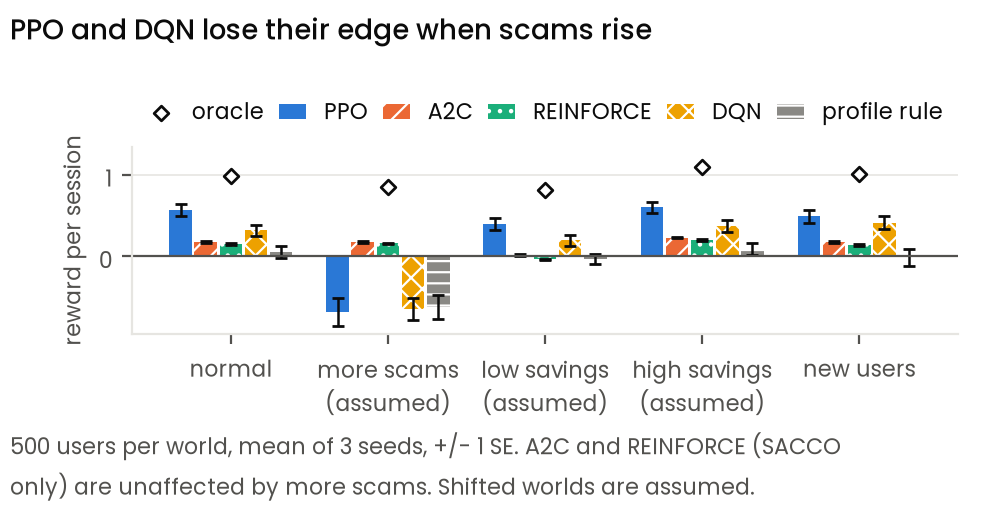
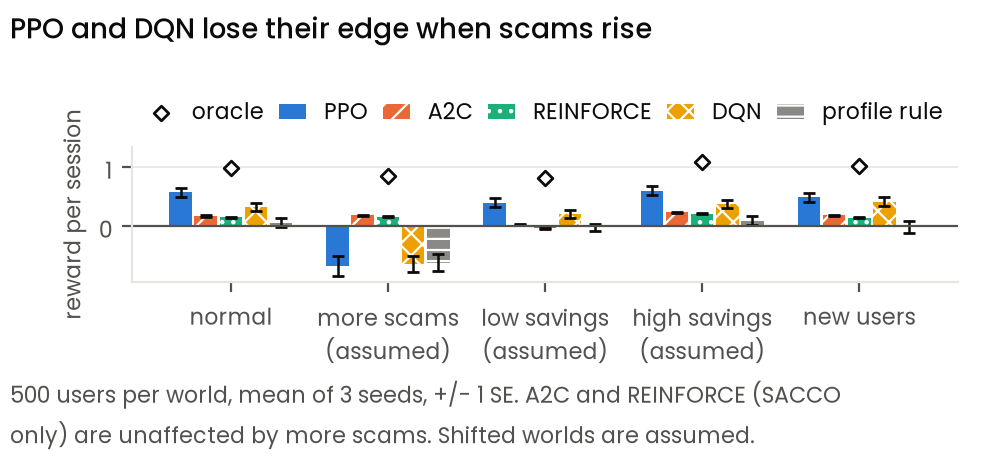
Put Figure 3's panels side by side and shorten the figures

diff --git a/analysis/plots.py b/analysis/plots.py
@@ -212,10 +212,13 @@ def fig_learning_curves(out, rule_val):
 
 
 # ---- 2. DQN loss and exploration -------------------------------------------------------------
+FIG3_WIDTH = 3.1          # inches; Figure 3's two figures sit side by side in the report, each at this width
+
+
 def fig_dqn(out):
     cs = final_curves("dqn")
     steps = cs[0]["step"]
-    fig, (a, b) = plt.subplots(1, 2, figsize=(6.0, 2.7))
+    fig, (a, b) = plt.subplots(2, 1, figsize=(FIG3_WIDTH, 3.3), sharex=True)
     for s, c in zip(SEEDS, cs):
         a.plot(steps, c["loss"], color=COLOR["dqn"], linewidth=1.2, alpha=0.5 + 0.25 * s, label=f"seed {s}")
     a.axvline(50_000, color=INK_2, linestyle=":", linewidth=1)
@@ -226,18 +229,17 @@ def fig_dqn(out):
     b.set_title("epsilon (share of random actions)", loc="left")
     b.set_ylabel("epsilon")
     b.set_ylim(0, 1.05)
-    for ax in (a, b):
-        ax.set_xlabel("training steps")
-        ax.xaxis.set_major_formatter(THOUSANDS)
-    a.legend(fontsize=8)
-    return finish(fig, "DQN's loss dips while it explores, then levels off",
+    b.set_xlabel("training steps")
+    b.xaxis.set_major_formatter(THOUSANDS)
+    a.legend(fontsize=8, loc="lower center", ncol=3, handlelength=1.0, columnspacing=0.8, borderaxespad=0.1)  # empty band under the curves
+    return finish(fig, "DQN: loss dips, then levels off",
                   "DQN run 1 (learning rate 3e-4), 3 seeds, 200,000 steps, logged every 10,000 steps.",
                   f"{out}/dqn_loss_epsilon.png")
 
 
 # ---- 3. policy-gradient entropy and policy loss ----------------------------------------------
 def fig_pg(out):
-    fig, (a, b) = plt.subplots(1, 2, figsize=(6.0, 2.68))
+    fig, (a, b) = plt.subplots(2, 1, figsize=(FIG3_WIDTH, 3.3), sharex=True)
     for algo in ("ppo", "a2c", "reinforce"):
         cs = final_curves(algo)
         steps = cs[0]["step"]
@@ -247,18 +249,19 @@ def fig_pg(out):
             ax.plot(steps, ys.mean(0), color=COLOR[algo], linestyle=LINESTYLE[algo], marker=MARKER[algo],
                     markevery=4, markersize=5, label=NAMES[algo])
     a.axhline(np.log(15), color=INK_2, linestyle=":", linewidth=1)
-    a.text(60_000, np.log(15) + 0.06, "fully random", fontsize=8, color=INK_2)
-    a.set_ylim(0, 3.05)
+    a.text(200_000, np.log(15) - 0.12, "fully random", fontsize=8, color=INK_2, ha="right", va="top")
+    a.set_ylim(0, 4.4)                                          # headroom above "fully random" for the legend
+    a.set_yticks([0, 1, 2, 3])
     a.set_title("entropy (spread of choices)", loc="left")
     a.set_ylabel("entropy (nats)")
     b.axhline(0, color=INK_2, linewidth=0.8)
     b.set_title("policy loss (noisy)", loc="left")
     b.set_ylabel("policy loss")
-    for ax in (a, b):
-        ax.set_xlabel("training steps")
-        ax.xaxis.set_major_formatter(THOUSANDS)
-    b.legend(fontsize=8, loc="lower right", markerscale=0.7, handlelength=1.8)   # empty corner of the loss panel
-    return finish(fig, "A2C and REINFORCE narrow their choices early; PPO gradually",
+    b.set_xlabel("training steps")
+    b.xaxis.set_major_formatter(THOUSANDS)
+    a.legend(fontsize=8, loc="upper right", ncol=3, markerscale=0.7, handlelength=1.4, columnspacing=0.6,
+             borderaxespad=0.1)                                     # one row above the "fully random" line
+    return finish(fig, "PPO narrows its choices slowly",
                   "3 seeds each (band = min to max); each policy-loss point is one update, so it is noisy.",
                   f"{out}/pg_entropy_policy_loss.png")
 
@@ -266,7 +269,7 @@ def fig_pg(out):
 # ---- 4. convergence: steps to reach two targets ----------------------------------------------
 def fig_convergence(out):
     never_y, budget = 125_000, 100_000
-    fig, axes = plt.subplots(1, 2, figsize=(4.8, 2.26), sharey=True)
+    fig, axes = plt.subplots(1, 2, figsize=(4.8, 2.05), sharey=True)
     rng = np.random.default_rng(0)                              # fixed jitter so the figure never changes
     for ax, target, label in ((axes[0], TARGET_SAFE, "safe-plan level"), (axes[1], TARGET_BEYOND, "beyond safe plan")):
         for i, algo in enumerate(ALGOS):
@@ -343,7 +346,7 @@ def fig_generalization(out):
     series = ([(f"{a} (3 seeds)", NAMES[a], COLOR[a], HATCH[a]) for a in ALGOS]
               + [("best profile rule", "profile rule", RULE_GREY, RULE_HATCH)])
     width = 0.8 / len(series)
-    fig, ax = plt.subplots(figsize=(5.0, 2.56))
+    fig, ax = plt.subplots(figsize=(5.0, 2.3))
     for j, (policy, label, color, hatch) in enumerate(series):
         xs = np.arange(len(worlds)) - 0.4 + width * (j + 0.5)
         ys = [float(rows[w, policy]["reward"]) for w in worlds]
